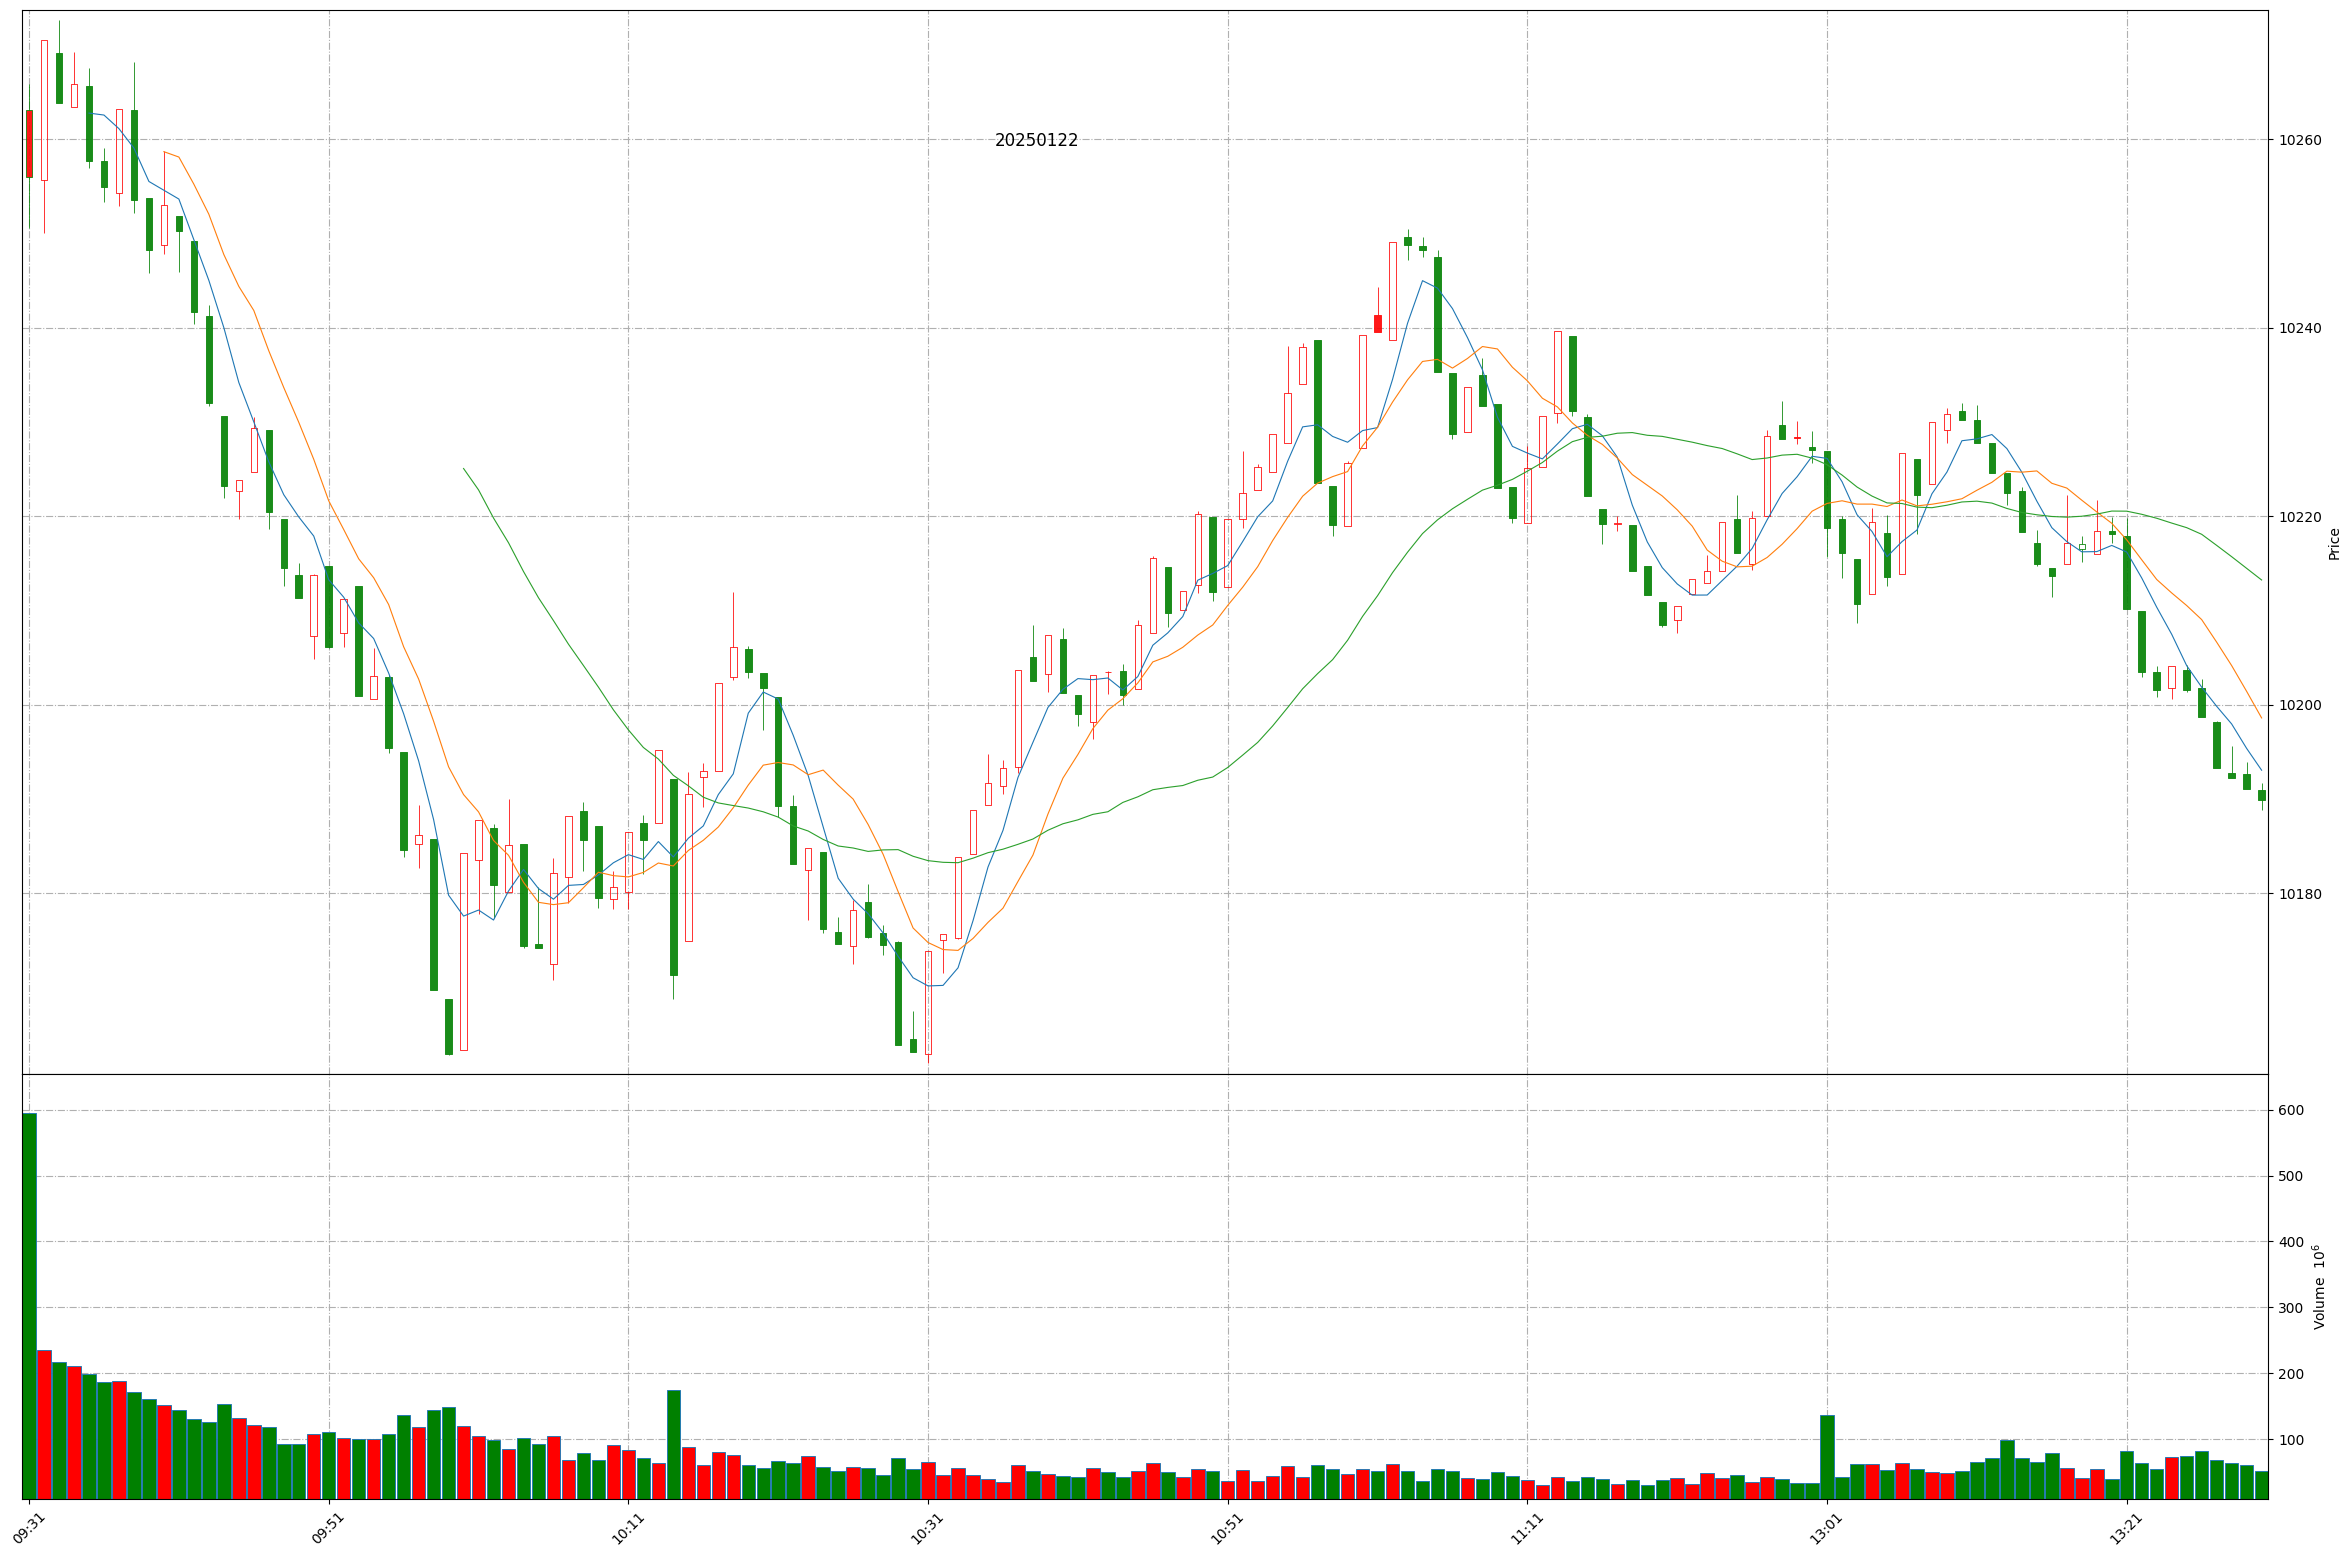
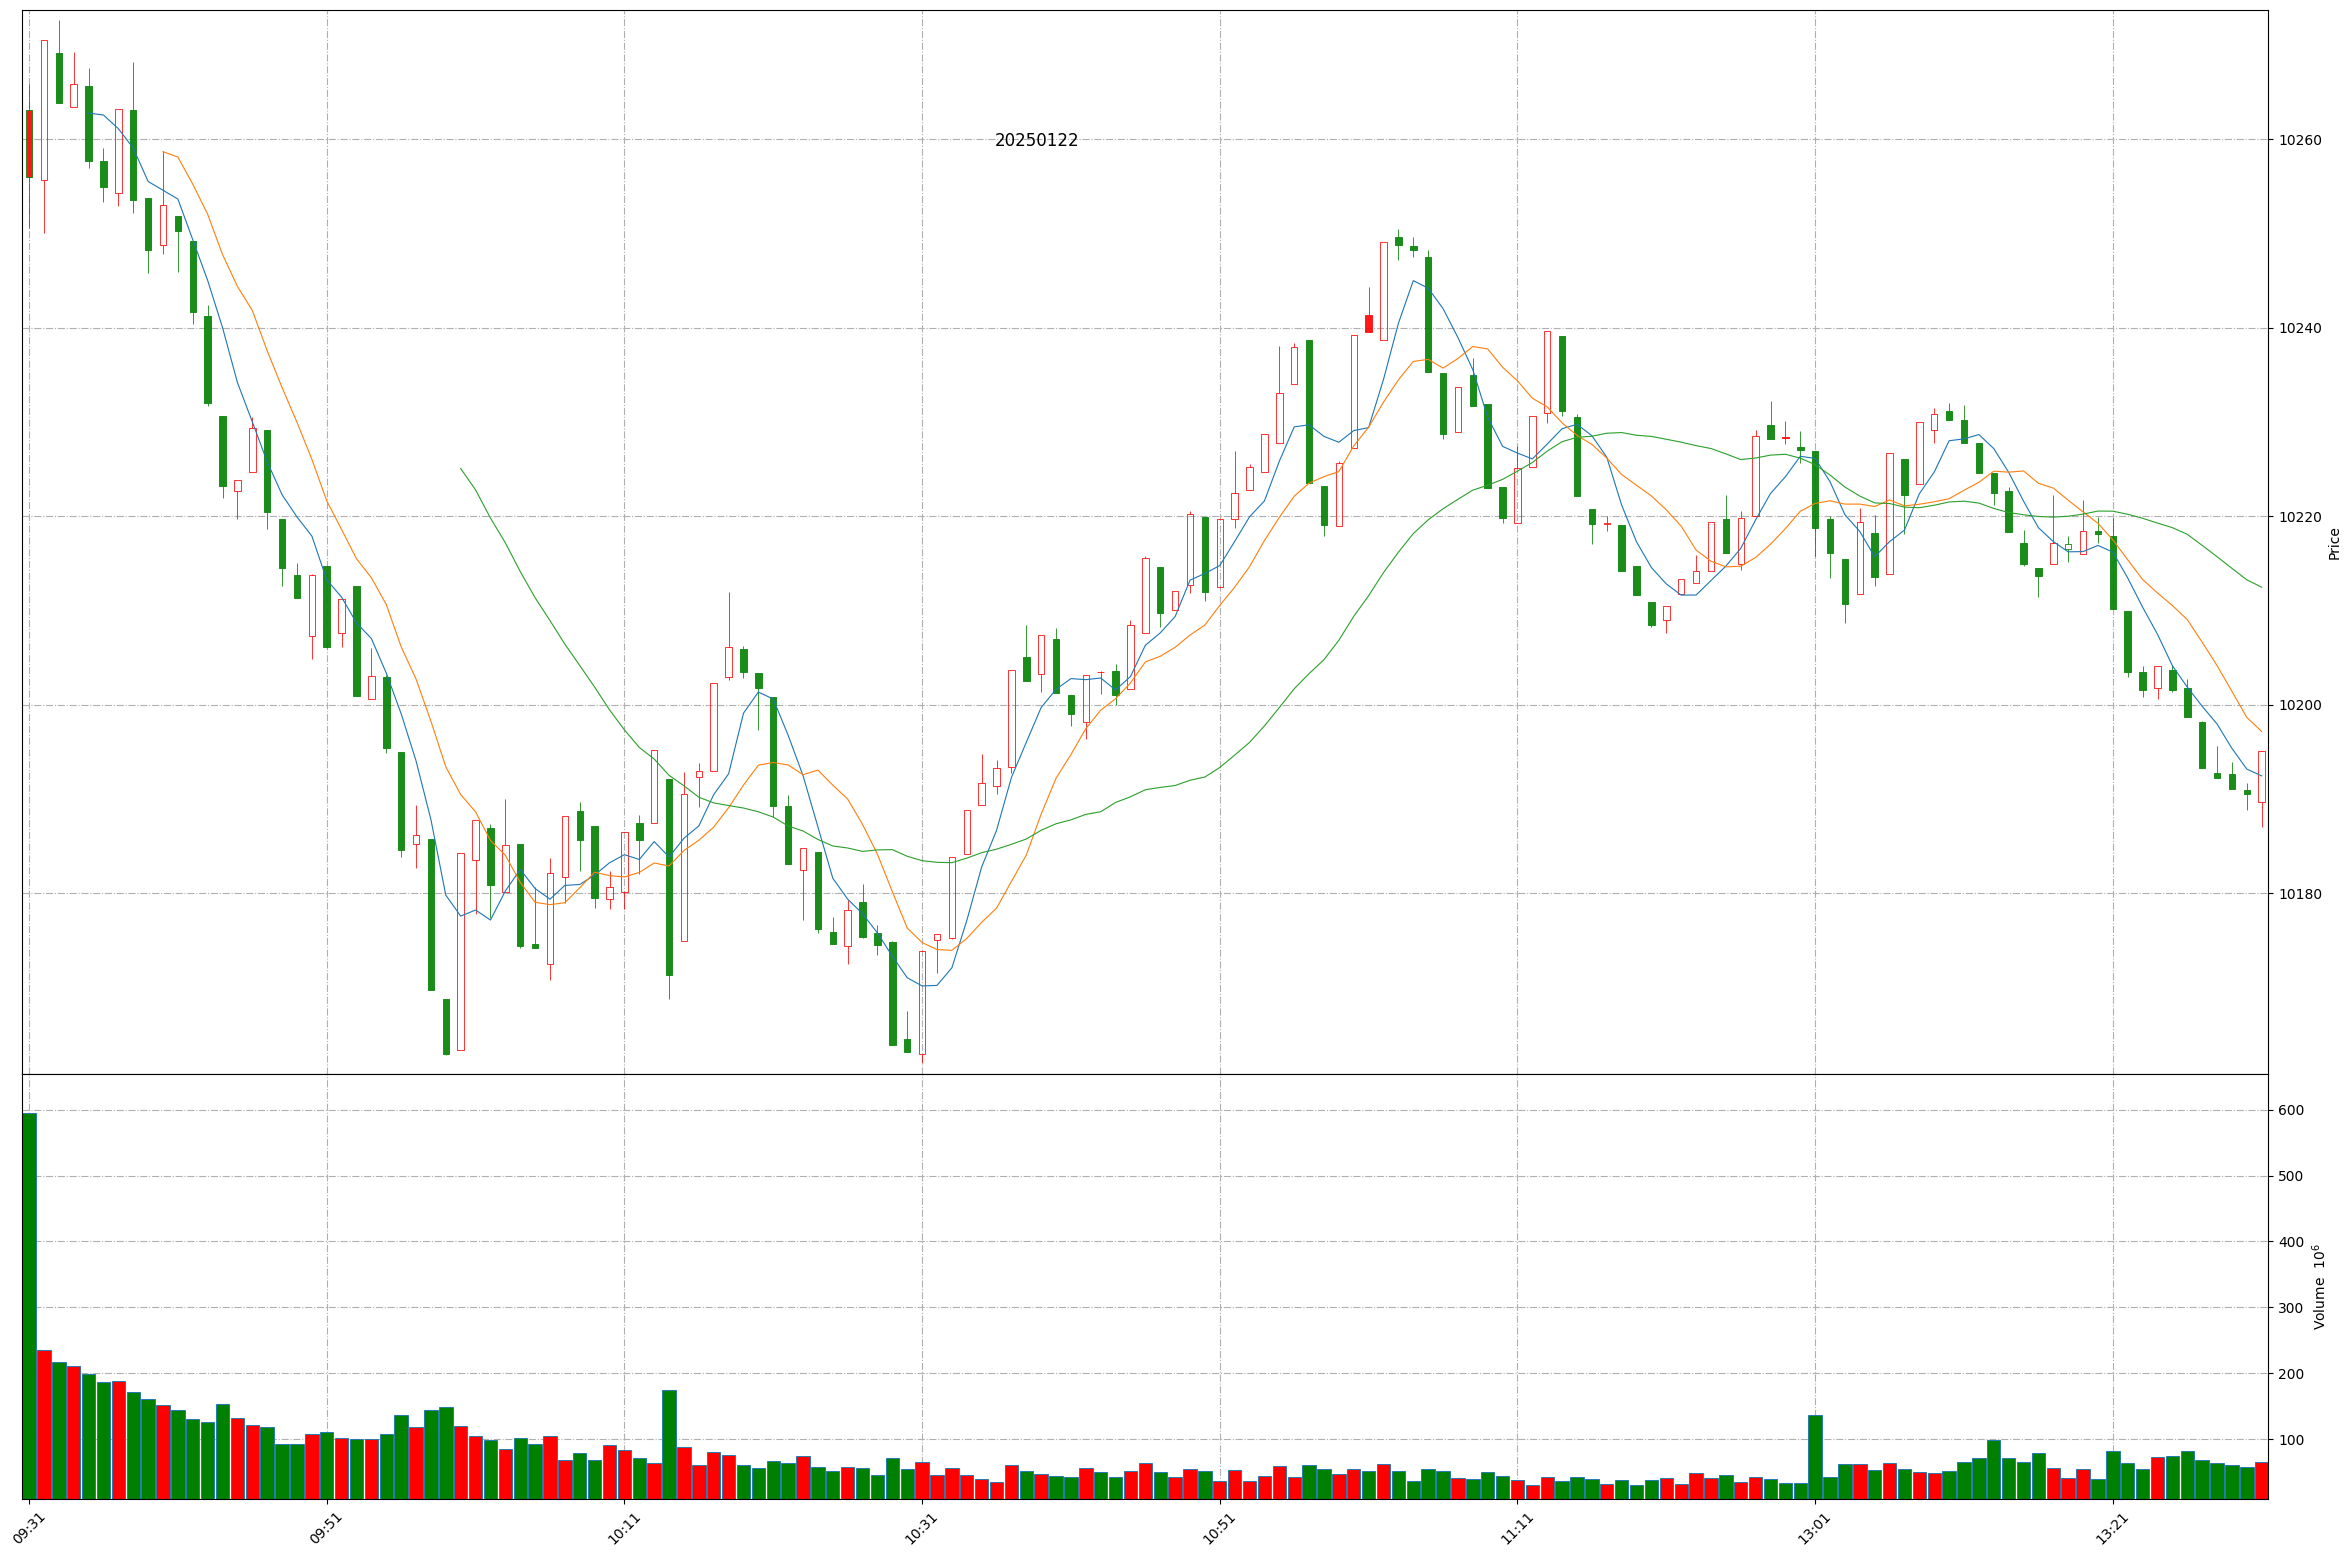
Github action update at 2025-01-22 13:31:05.

diff --git a/README.md b/README.md
@@ -1,11 +1,11 @@
 
 # Daily-A-share-market-quotes 每日 A 股指数（5min 更新）- 20250122
 
-### 上证指数 20250122 13:30
+### 上证指数 20250122 13:31
 ![](./fig/2025/1/20250122-sh000001.png)
 
-### 深证成指 20250122 13:30
+### 深证成指 20250122 13:31
 ![](./fig/2025/1/20250122-sz399001.png)
 
-### 北证50 20250122 13:30
+### 北证50 20250122 13:31
 ![](./fig/2025/1/20250122-bj899050.png)
